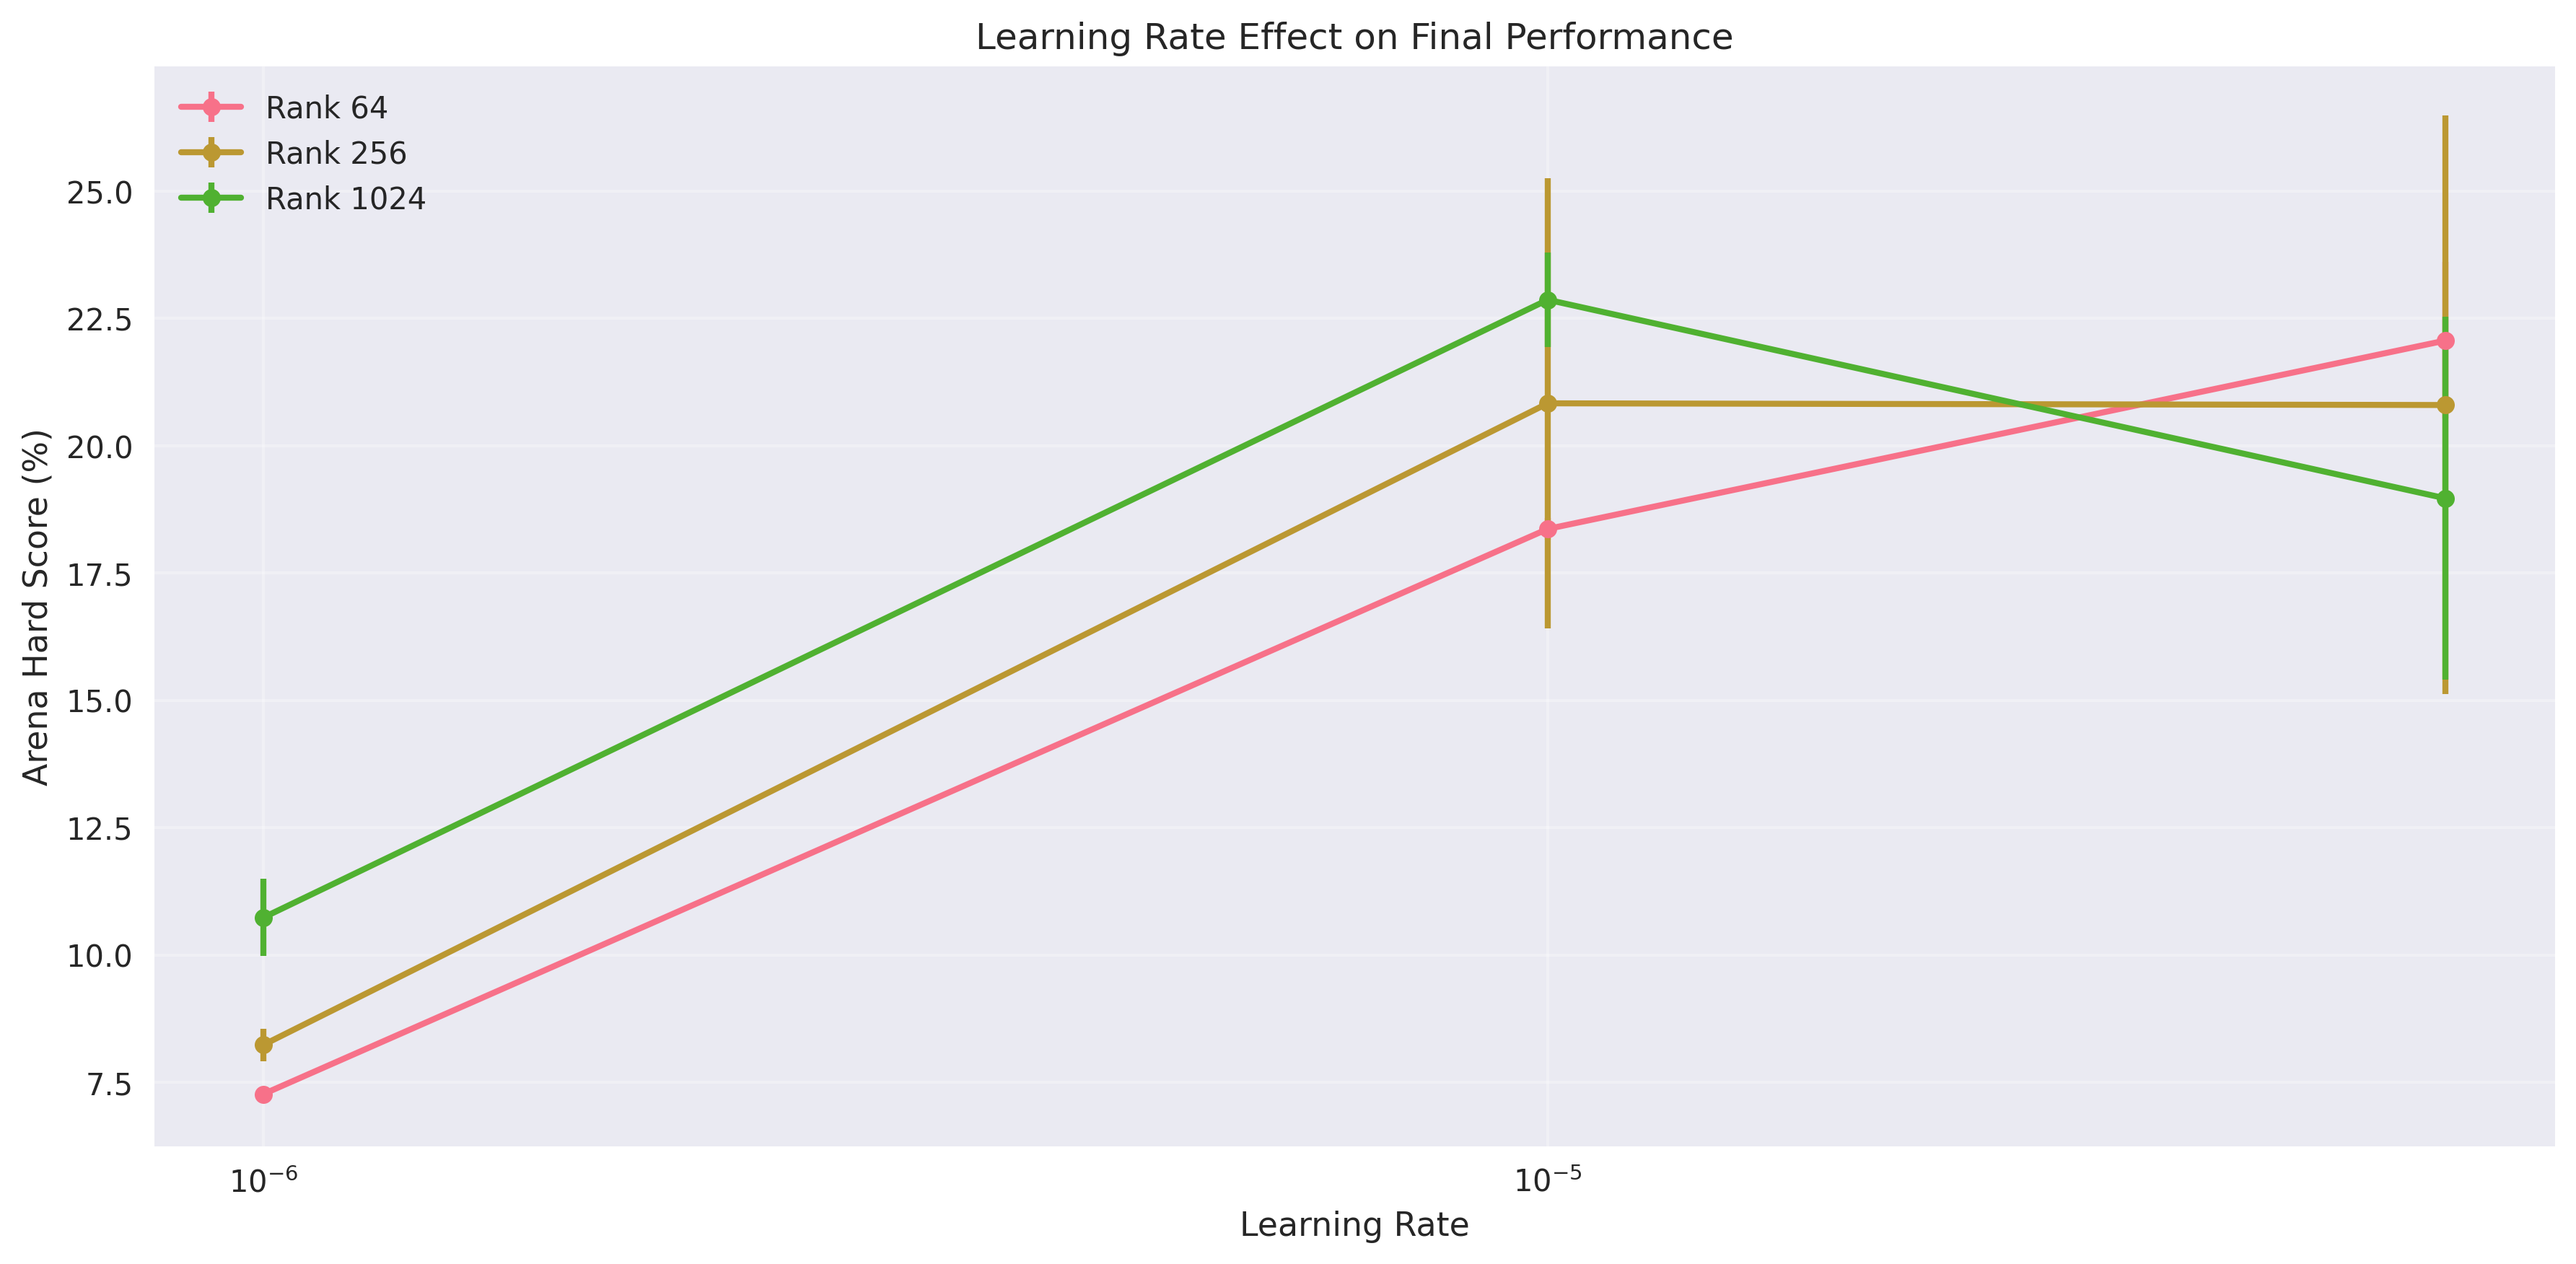
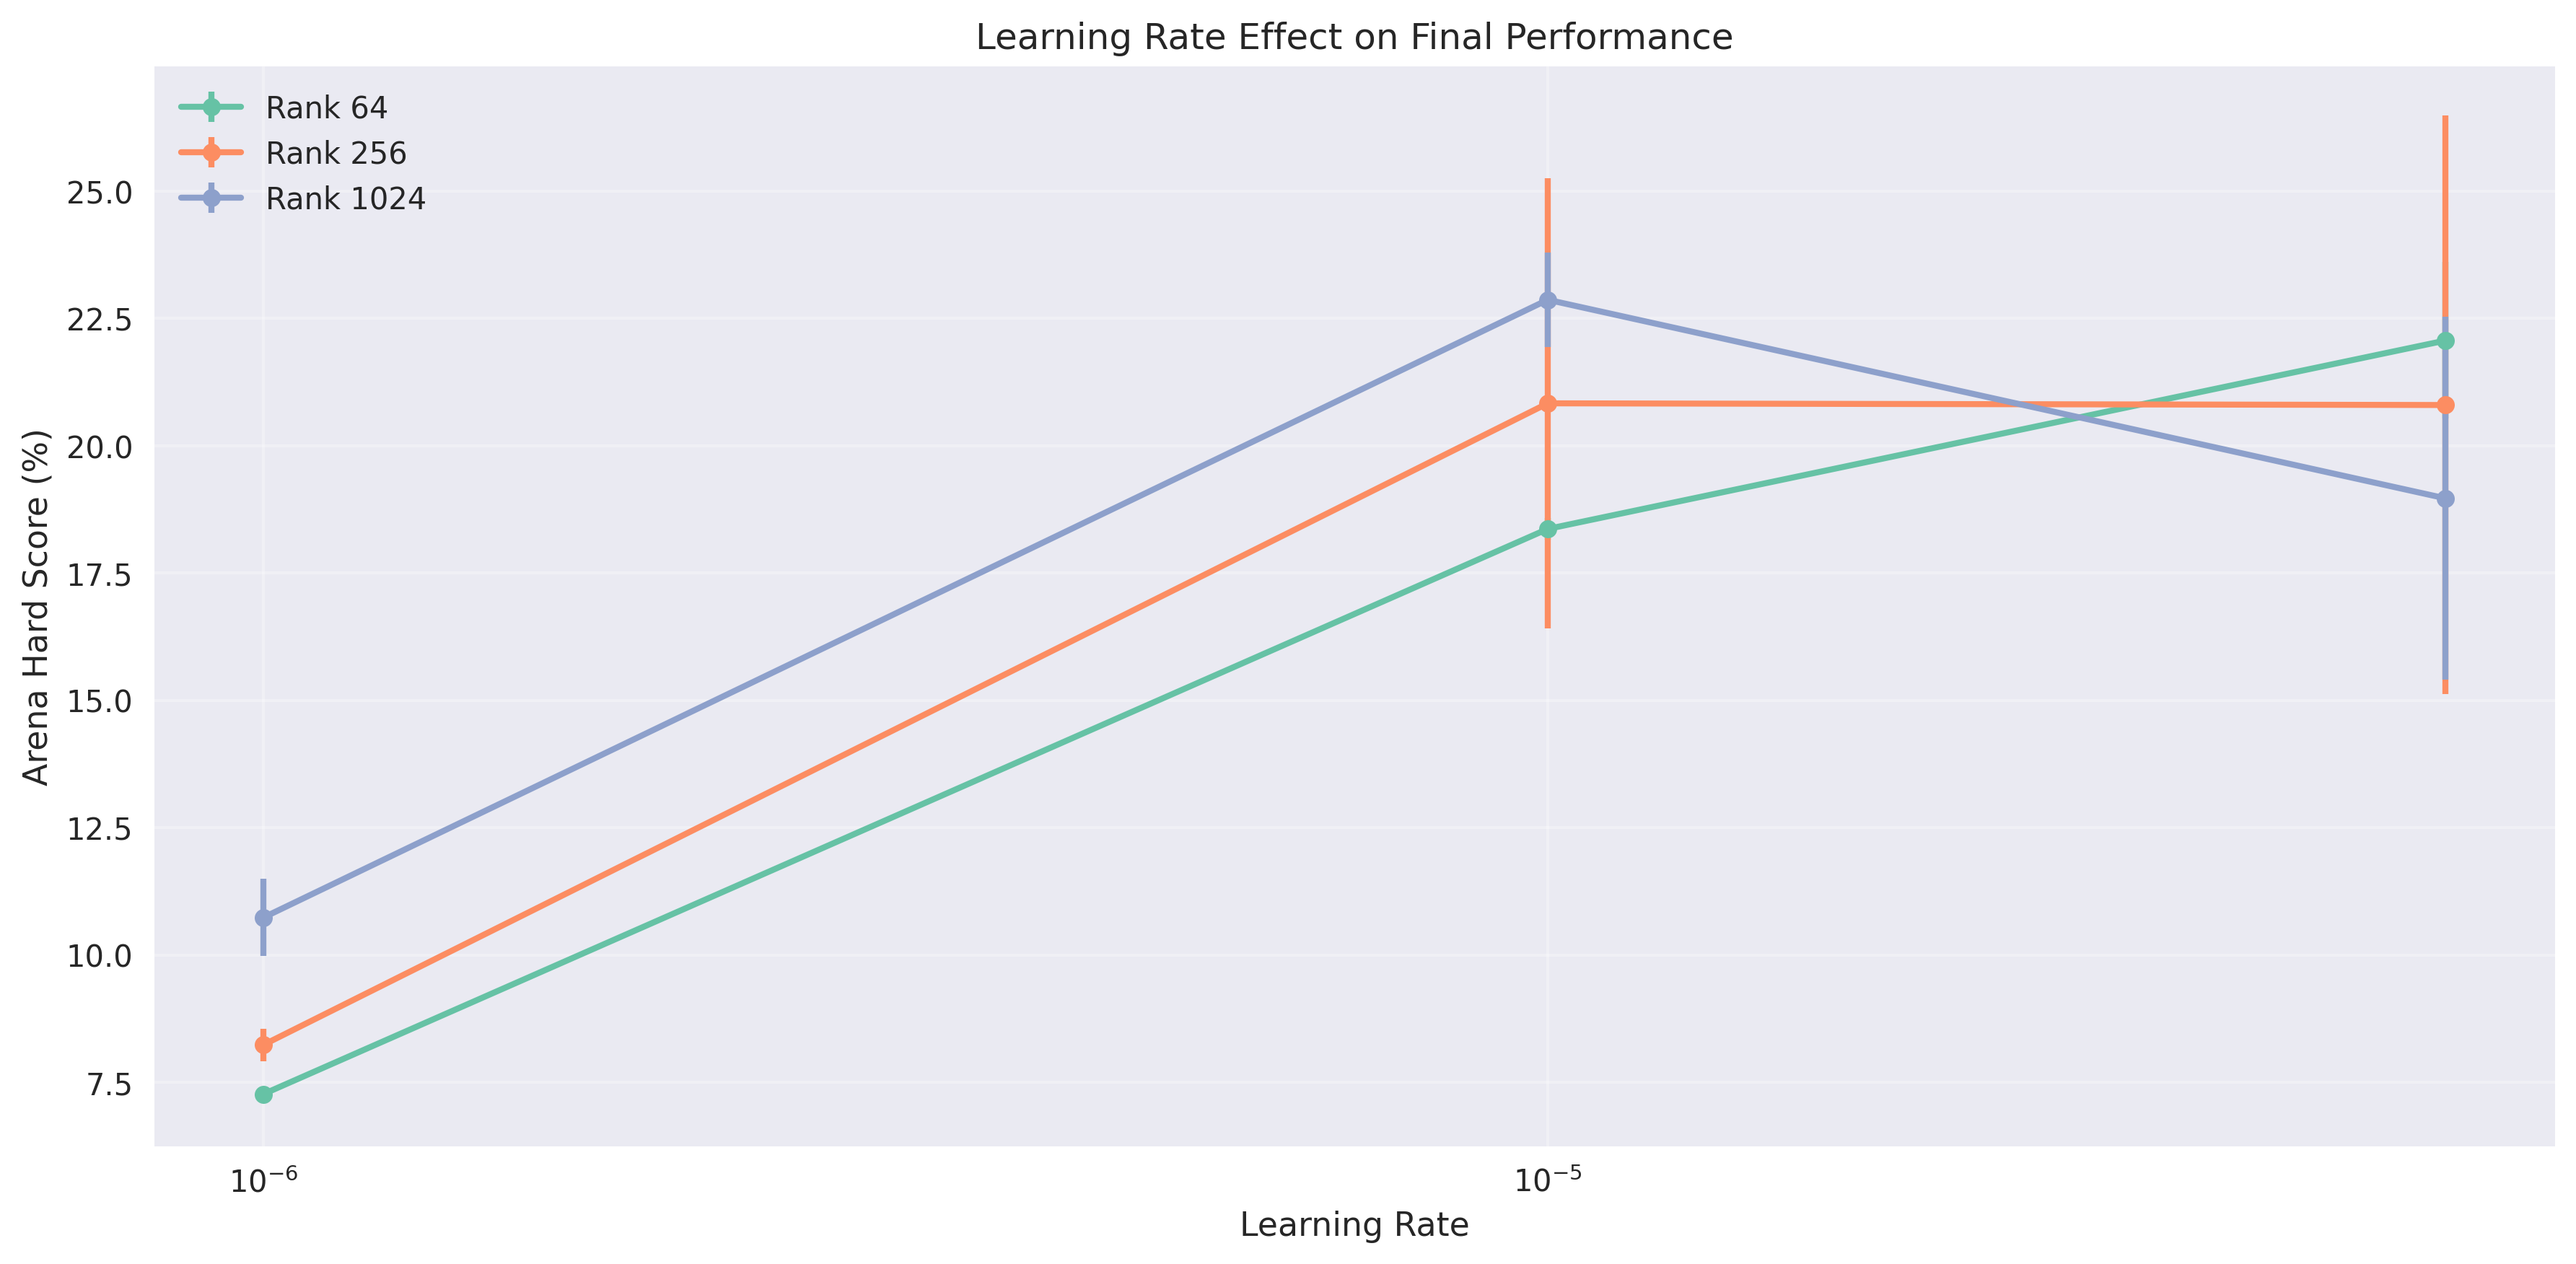
updated plot with LR based colour grouping

diff --git a/analysis/analyze_arena_hard_results.py b/analysis/analyze_arena_hard_results.py
@@ -20,7 +20,7 @@ import argparse
 
 # Set style for better plots
 plt.style.use('seaborn-v0_8')
-sns.set_palette("husl")
+sns.set_palette("Set2")
 
 def parse_model_name(model_name):
     """
@@ -47,6 +47,9 @@ def parse_model_name(model_name):
     # Check if it's a default configuration
     if 'default' in model_name:
         parsed['is_default'] = True
+        # Set default hyperparameters
+        parsed['learning_rate'] = 2e-5  # Default LR = 2e-5
+        parsed['warmup_ratio'] = 0.03   # Default WR = 0.03
         # Extract step for default models
         if 'final' in model_name:
             parsed['is_final'] = True
@@ -201,50 +204,48 @@ def plot_training_curves(df, output_dir):
                    'o-', linewidth=3, markersize=8, label='Default', color='black')
             print(f"    Default: {len(default_data)} points")
         
-        # Plot different hyperparameter configurations
+        # Plot different hyperparameter configurations with color groups by learning rate
         non_default = rank_data[~rank_data['is_default']]
         
-        # Group by learning rate and warmup ratio, but prioritize showing all learning rates
-        # config_count = 0
-        plotted_lrs = set()
-        
-        # First pass: plot one config per learning rate (with warmup=0.010 if available)
-        # for (lr, warmup), group in non_default.groupby(['learning_rate', 'warmup_ratio']):
-        #     if pd.notna(lr) and pd.notna(warmup) and len(group) > 1:
-        #         if lr not in plotted_lrs and warmup == 0.010:  # Prefer warmup=0.010
-        #             label = f'LR={lr:.0e}, WR={warmup:.3f}'
-        #             group_sorted = group.sort_values('checkpoint_step')
-        #             ax.plot(group_sorted['checkpoint_step'], group_sorted['score'], 
-        #                    'o-', linewidth=2, markersize=4, label=label, alpha=0.8)
-        #             plotted_lrs.add(lr)
-        #             config_count += 1
-        
-        # # Second pass: fill remaining slots with other configs, avoiding duplicate LRs
-        # for (lr, warmup), group in non_default.groupby(['learning_rate', 'warmup_ratio']):
-        #     if pd.notna(lr) and pd.notna(warmup) and len(group) > 1:
-        #         if lr not in plotted_lrs:  # Haven't plotted this LR yet
-        #             label = f'LR={lr:.0e}, WR={warmup:.3f}'
-        #             group_sorted = group.sort_values('checkpoint_step')
-        #             ax.plot(group_sorted['checkpoint_step'], group_sorted['score'], 
-        #                    'o-', linewidth=2, markersize=4, label=label, alpha=0.8)
-        #             plotted_lrs.add(lr)
-        #             config_count += 1
-                    # if config_count >= 6:  # Increased limit slightly
-                    #     break
-        
-        # Third pass: add a few more interesting configs if space allows
-        for (lr, warmup), group in non_default.groupby(['learning_rate', 'warmup_ratio']):
-            if pd.notna(lr) and pd.notna(warmup) and len(group) > 1:
-                # if config_count < 13:
-                label = f'LR={lr:.0e}, WR={warmup:.3f}'
-                group_sorted = group.sort_values('checkpoint_step')
-                ax.plot(group_sorted['checkpoint_step'], group_sorted['score'], 
-                        'o-', linewidth=2, markersize=4, label=label, alpha=0.8)
-                    # config_count += 1
-                # else:
-                #     break
-        
-        print(f"    Non-default configs plotted!  ")
+        if not non_default.empty:
+            # Get unique learning rates and assign color families
+            unique_lrs = sorted([lr for lr in non_default['learning_rate'].unique() if pd.notna(lr)])
+            
+            # Define color families for each learning rate
+            color_families = {
+                1e-6: ['darkred', 'red', 'lightcoral'],      # Red family for 1e-6
+                1e-5: ['darkgreen', 'green', 'lightgreen'],  # Green family for 1e-5  
+                2e-5: ['navy', 'blue', 'lightblue'],         # Blue family for 2e-5 (default)
+                5e-5: ['darkorange', 'orange', 'gold']       # Orange family for 5e-5
+            }
+            
+            config_count = 0
+            for lr in unique_lrs:
+                lr_data = non_default[non_default['learning_rate'] == lr]
+                colors = color_families.get(lr, ['gray', 'lightgray', 'silver'])  # Default colors
+                
+                # Plot up to 3 warmup ratios per learning rate
+                warmup_ratios = sorted([w for w in lr_data['warmup_ratio'].unique() if pd.notna(w)])
+                for i, warmup in enumerate(warmup_ratios[:3]):  # Limit to 3 per LR
+                    warmup_data = lr_data[lr_data['warmup_ratio'] == warmup]
+                    if len(warmup_data) > 1:  # Only plot if multiple points
+                        group_sorted = warmup_data.sort_values('checkpoint_step')
+                        color = colors[i % len(colors)]
+                        
+                        # Create label with both LR and warmup info
+                        if lr == 2e-5:  # Default LR
+                            label = f'Default LR={lr:.0e}, WR={warmup:.3f}'
+                        else:
+                            label = f'LR={lr:.0e}, WR={warmup:.3f}'
+                        
+                        ax.plot(group_sorted['checkpoint_step'], group_sorted['score'], 
+                               'o-', linewidth=2, markersize=4, label=label, 
+                               color=color, alpha=0.8)
+                        config_count += 1
+            
+            print(f"    Non-default configs plotted: {config_count}")
+        else:
+            print(f"    Non-default configs plotted: 0")
         
         ax.set_title(f'Rank {int(rank)} Training Curves')
         ax.set_xlabel('Training Steps')

diff --git a/analysis/analyze_arena_hard_text.py b/analysis/analyze_arena_hard_text.py
@@ -31,6 +31,9 @@ def parse_model_name(model_name):
     # Check if it's a default configuration
     if 'default' in model_name:
         parsed['is_default'] = True
+        # Set default hyperparameters
+        parsed['learning_rate'] = 2e-5  # Default LR = 2e-5
+        parsed['warmup_ratio'] = 0.03   # Default WR = 0.03
         if 'final' in model_name:
             parsed['is_final'] = True
             parsed['checkpoint_step'] = 999999
